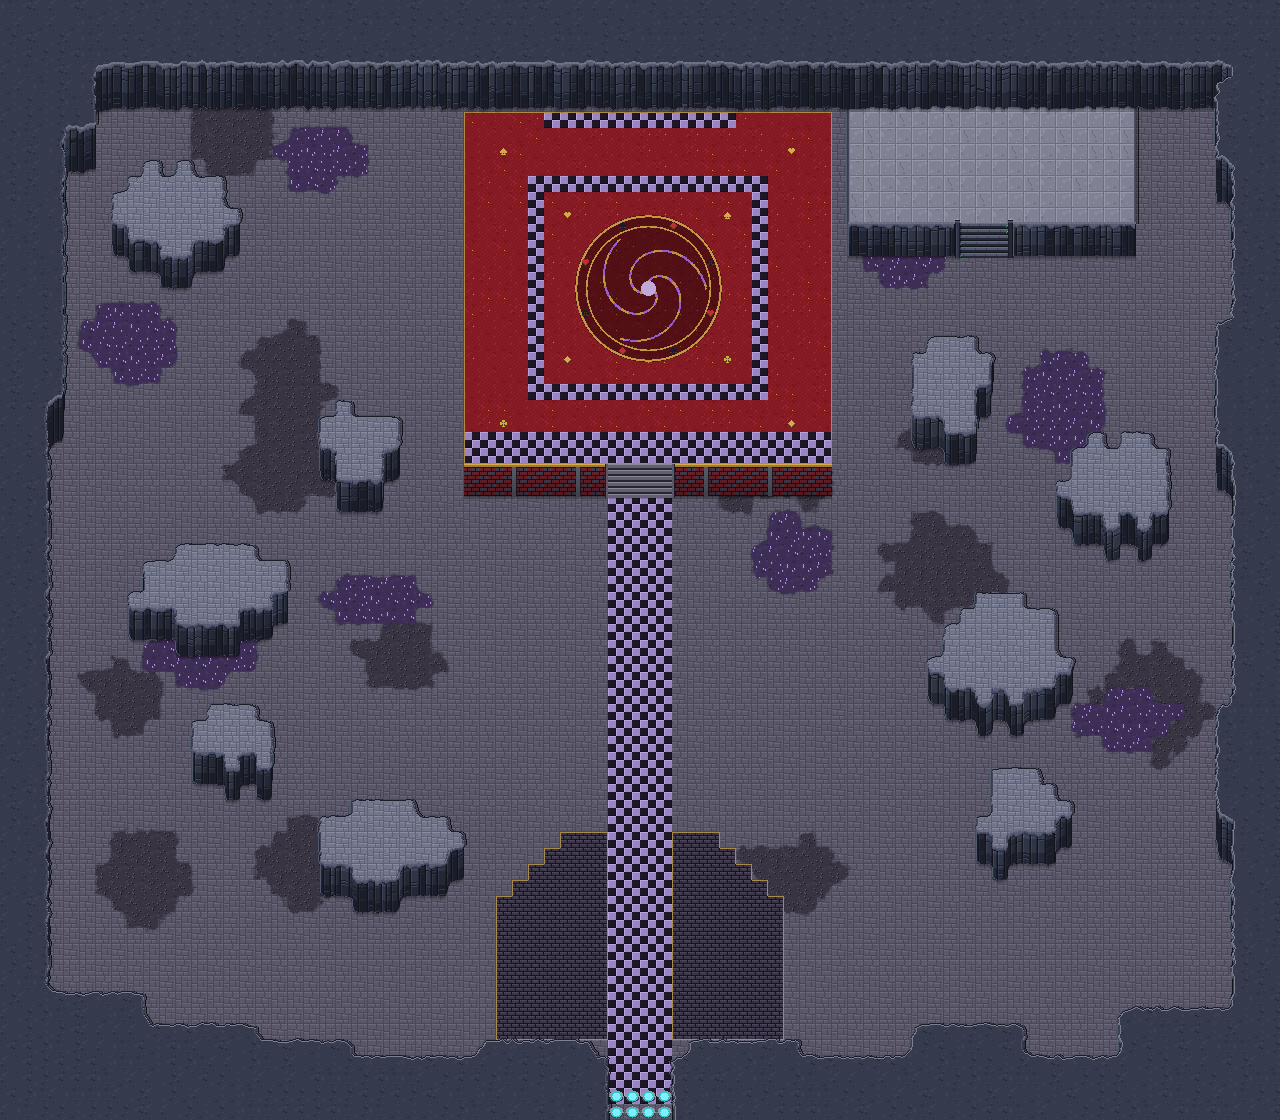
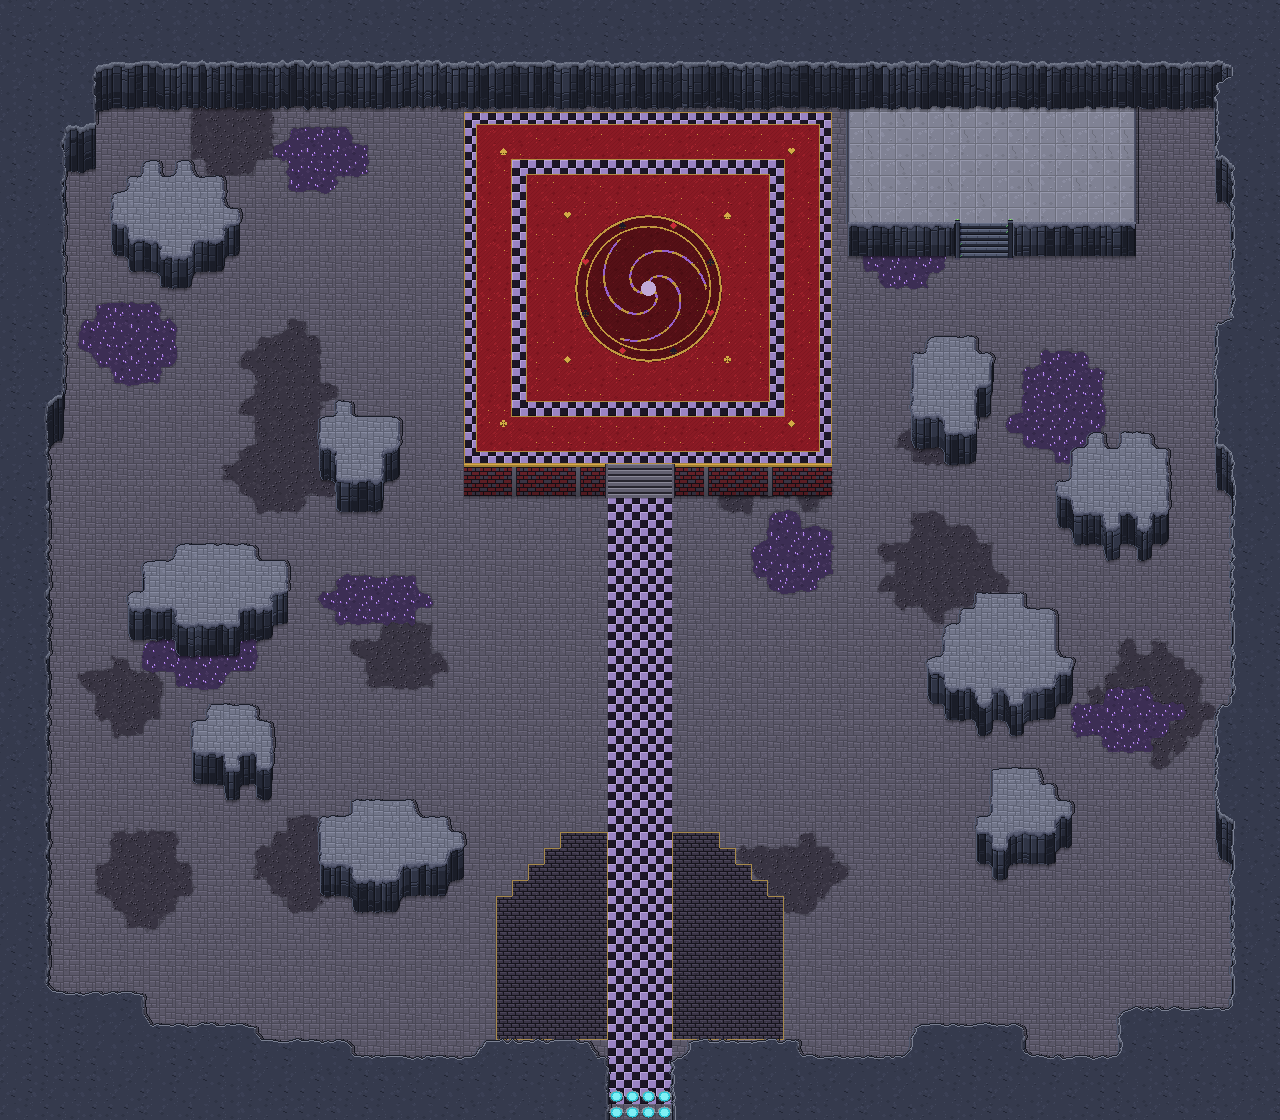
Karte 14: Boss-Feld-Form waehlbar (karte14_form.py: quadrat, achteck, rund, raute, pik, bastion), pixelgenauer Saum und Ring, 5 Varianten als Vorschau
Claude-Session: https://claude.ai/code/session_01SaoYHKhnro4LFcPJqjaPsq

Changed region(s): [[0.3438, 0.0938, 0.6562, 0.4062]]

diff --git a/tools/karte14_bauen.py b/tools/karte14_bauen.py
@@ -16,6 +16,7 @@ import karte_bauen as kb
 import karte04_bauen as k4
 import karte08_bauen as k8
 import bauwerke
+import karte14_form
 
 ROOT = os.path.join(os.path.dirname(os.path.abspath(__file__)), '..')
 KARTE = os.path.join(ROOT, 'maps', 'karte14')
@@ -157,7 +158,7 @@ def bauen(frame=None, speichern=True):
         m = weich(roh, bl, rausch, seed)
         a[m] = textur(art, cols, rows)[m]
         k4.dunkeln(a, weich(roh, bl, rausch, seed, 0.36) & ~m, 0.84)
-    for art in 'czbf':
+    for art in 'zbf':
         m = zell_maske(cls, art, cols, rows) > 0
         a[m] = textur(art, cols, rows)[m]
     platz = zell_maske(cls, 'b', cols, rows) > 0
@@ -169,13 +170,29 @@ def bauen(frame=None, speichern=True):
     felsn = weich(zell_maske(cls, 'v', cols, rows), 3, 0.25, 11) & ~em[5]
     a[felsn] = textur('v', cols, rows)[felsn]
     portal = zell_maske(cls, 'f', cols, rows) > 0
-    feld = (zell_maske(cls, 'cz', cols, rows) > 0) & (k8.stufe(hoehe, 2, cols, rows) > 0)
+    yy_, xx_ = np.mgrid[0:Hp, 0:Wp]                               # Boss-Feld pixelgenau in der gewaehlten Form
+    feld = karte14_form.maske(lay.get('bossform', 'quadrat'), xx_ + 0.5, yy_ + 0.5) & (yy_ >= 7 * T)
+    tiefe_ = np.zeros((Hp, Wp), np.int16)                         # Abstand zum Rand (in px, bis 70)
+    m_ = feld.copy()
+    for d_ in range(1, 71):
+        m_ = np.array(Image.fromarray((m_ * 255).astype(np.uint8)).filter(ImageFilter.MinFilter(3))) > 0
+        tiefe_[m_] = d_
+        if not m_.any():
+            break
+    a[feld] = textur('c', cols, rows)[feld]
+    zt = textur('z', cols, rows)
+    saum = feld & (tiefe_ < 12)
+    ring = feld & (tiefe_ >= 48) & (tiefe_ < 62)
+    a[saum | ring] = zt[saum | ring]
+    a[feld & ((tiefe_ == 12) | (tiefe_ == 47) | (tiefe_ == 62))] = H('#b08a40')   # Goldlinien an Saum und Ring
     a[em[5]] = (textur('r', cols, rows)[em[5]] * np.array([0.56, 0.58, 0.66])).astype(np.uint8)
     # Boss-Feld: Goldkante, Pfosten in den Ecken des Rahmens, Kartenzeichen, Spirale
     a[kontur(feld)] = H('#b08a40')
     for (sx, sy, nm) in ((35, 13, 'herz'), (45, 13, 'pik'), (35, 22, 'karo'), (45, 22, 'kreuz'),
                          (31, 9, 'pik'), (49, 9, 'herz'), (31, 26, 'kreuz'), (49, 26, 'karo')):
-        symbol(a, nm, sx * T + 4, sy * T + 4, (210, 170, 70))
+        px_, py_ = sx * T + 7, sy * T + 7
+        if 20 <= tiefe_[py_, px_] < 46 or tiefe_[py_, px_] >= 66:         # nur auf rotem Teppich, nicht im Saum/Ring
+            symbol(a, nm, sx * T + 4, sy * T + 4, (210, 170, 70))
     b = lay['boss']
     spirale(a, b[0] * T, b[1] * T, 4.6 * T, frame)
     treppen_info = []

diff --git a/tools/karte14_layout.py b/tools/karte14_layout.py
@@ -13,8 +13,11 @@ Klassen:  d Gipfelstein (Pflaster)  k dunkler Schotter  p Kristallboden (violett
 Hoehen:   1 Boden, 2 Boss-Feld/Portalplatz/Felsnasen, 5 Bergwand.
 """
 import json, os
+import sys
 import numpy as np
 from PIL import Image
+sys.path.insert(0, os.path.dirname(os.path.abspath(__file__)))
+import karte14_form
 
 ROOT = os.path.join(os.path.dirname(os.path.abspath(__file__)), '..')
 KARTE = os.path.join(ROOT, 'maps', 'karte14')
@@ -66,14 +69,12 @@ def main():
         blob(k, *f, 'v', 60 + i, 0.45, nur='dkp')
     h[k == 'v'] = 2
     # ------------------------------------------------------------------ Boss-Feld (eine Etage hoeher) mit Schachbrett
-    k[7:29, 29:52] = 'c'
-    h[7:29, 29:52] = 2
-    k[7, 34:46] = 'z'                                        # Streifen vor dem Schloss
-    k[27:29, 29:52] = 'z'                                    # Schachbrett-Saum vorne
-    for y in range(11, 25):
-        for x in range(33, 48):
-            if y in (11, 24) or x in (33, 47):
-                k[y, x] = 'z'
+    form = os.environ.get('BOSSFORM', 'quadrat')             # Form siehe karte14_form.py (Saum/Ring im Bau-Skript)
+    yy, xx = np.mgrid[0:R, 0:C]
+    feld = karte14_form.maske(form, (xx + 0.5) * 16, (yy + 0.5) * 16)
+    feld[:7] = False
+    k[feld] = 'c'
+    h[feld] = 2
     treppen = [[38, 41, 2, 28]]
     # ------------------------------------------------------------------ Schachbrettweg, Treppenplatz unten
     k[30:69, 38:42] = 'z'
@@ -86,7 +87,7 @@ def main():
     treppen.append([60, 62, 2, 13])
     lay = {
         'groesse': [C, R], 'klassen': [''.join(r) for r in k], 'hoehe': [''.join(str(c) for c in r) for r in h],
-        'treppen_sued': treppen, 'boss': [40.5, 18.0], 'portal': [62.0, 8.0], 'felsnasen': FELS,
+        'treppen_sued': treppen, 'boss': [40.5, 18.0], 'bossform': form, 'portal': [62.0, 8.0], 'felsnasen': FELS,
         'teleporter': [{'x': 38, 'y': 68, 'b': 4, 'h': 2}],
     }
     os.makedirs(KARTE, exist_ok=True)

diff --git a/tools/karte14_form.py b/tools/karte14_form.py
@@ -1,0 +1,38 @@
+"""Form des Boss-Felds auf Karte 14 (Spiral Mountain: Summit) - pixelgenau, von Layout und Bau-Skript genutzt.
+
+Formen: quadrat, achteck, rund (Manege), raute (Harlekin-Karo), pik (Spielkarten-Pik, Spitze zum Schloss, Stiel zur
+Treppe), bastion (Quadrat mit runden Eckbastionen). Jede Form hat unten einen geraden Absatz fuer die Treppe.
+"""
+import numpy as np
+
+T = 16
+CX, CY = 40.5 * T, 18.0 * T          # Mitte des Boss-Felds (Spirale)
+HX, HY = 11.5 * T, 11.0 * T          # halbe Breite/Hoehe des Rahmens (Spalten 29-51, Reihen 7-28)
+
+
+def maske(form, xx, yy):
+    """xx, yy: Pixelkoordinaten (Kachel-Mitten oder Pixel). Liefert die Boss-Feld-Maske."""
+    dx, dy = (xx - CX), (yy - CY)
+    ax, ay = np.abs(dx), np.abs(dy)
+    box = (ax <= HX) & (ay <= HY)
+    if form == 'achteck':
+        m = box & (ax / HX + ay / HY <= 1.5)
+    elif form == 'rund':
+        m = (dx / HX) ** 2 + (dy / HY) ** 2 <= 1.0
+    elif form == 'raute':
+        m = box & (ax / HX + ay / HY <= 1.18)
+    elif form == 'pik':
+        lx, ly, lr = 0.47 * HX, 0.18 * HY, 0.56 * HX                         # zwei runde Lappen unten
+        lappen = ((ax - lx) ** 2 + (dy - ly) ** 2 <= lr ** 2)
+        spitze = (dy <= ly) & (dy >= -HY) & (ax <= (dy + HY) / (HY + ly) * (lx + lr * 0.98))
+        stiel = (dy >= 0.35 * HY) & (dy <= HY) & (ax <= 0.2 * HX + (dy - 0.35 * HY) / (0.65 * HY) * 0.25 * HX)
+        m = lappen | spitze | stiel
+    elif form == 'bastion':
+        k, r = 0.78, 0.3 * HY
+        kern = (ax <= k * HX) & (ay <= k * HY)
+        ecken = ((ax - k * HX) ** 2 + (ay - k * HY) ** 2 <= r ** 2)
+        m = kern | ecken
+    else:                                                                     # quadrat
+        m = box
+    absatz = (ax <= 3.0 * T) & (dy >= HY - 2.2 * T) & (dy <= HY)             # gerader Absatz fuer die Treppe
+    return m | absatz
